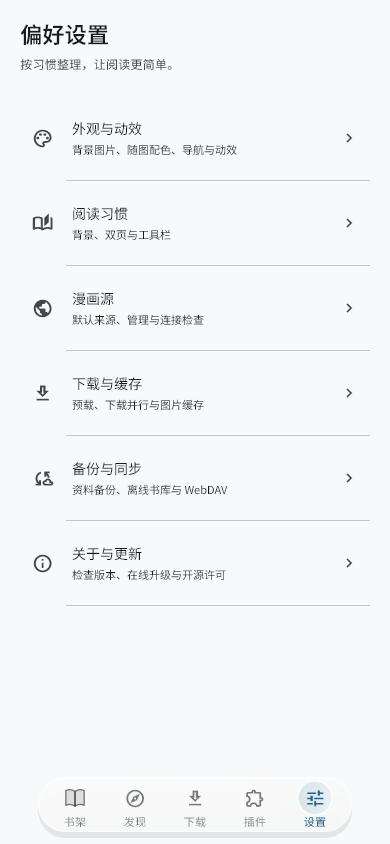
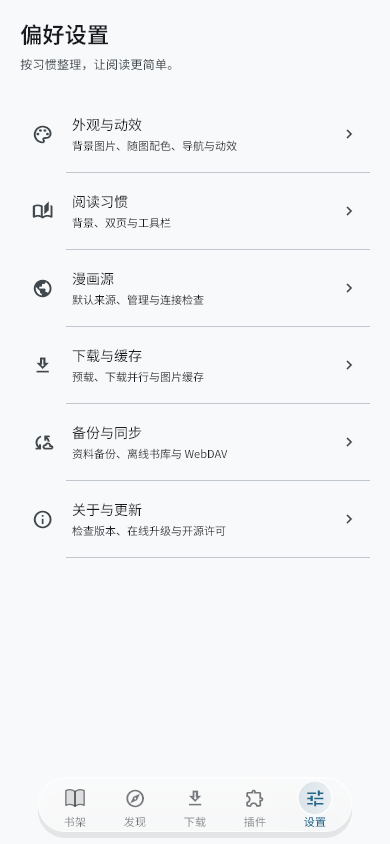
Update v0.4.2 downloads and measured performance notes

diff --git a/README.md b/README.md
@@ -75,14 +75,14 @@
 
 ## 下载与更新
 
-当前发行版：**[v0.4.1](https://github.com/LexianLix/manxia/releases/tag/v0.4.1)**，支持 **Android 7.0+**。提供使用固定项目密钥签名的 **Release 模式 APK**，按设备架构分包。
+当前发行版：**[v0.4.2](https://github.com/LexianLix/manxia/releases/tag/v0.4.2)**，支持 **Android 7.0+**。提供使用固定项目密钥签名的 **Release 模式 APK**，按设备架构分包。
 
 | 设备 | 安装包 |
 | --- | --- |
-| 常见 Android 手机、平板（推荐） | [ARM64 · arm64-v8a](https://github.com/LexianLix/manxia/releases/download/v0.4.1/Manxia-0.4.1-arm64-v8a.apk) |
-| 旧款 32 位 ARM 设备 | [ARMv7 · armeabi-v7a](https://github.com/LexianLix/manxia/releases/download/v0.4.1/Manxia-0.4.1-armeabi-v7a.apk) |
-| x86_64 设备或模拟器 | [x86_64](https://github.com/LexianLix/manxia/releases/download/v0.4.1/Manxia-0.4.1-x86_64.apk) |
-| 下载完整性校验 | [SHA256SUMS.txt](https://github.com/LexianLix/manxia/releases/download/v0.4.1/SHA256SUMS.txt) |
+| 常见 Android 手机、平板（推荐） | [ARM64 · arm64-v8a](https://github.com/LexianLix/manxia/releases/download/v0.4.2/Manxia-0.4.2-arm64-v8a.apk) |
+| 旧款 32 位 ARM 设备 | [ARMv7 · armeabi-v7a](https://github.com/LexianLix/manxia/releases/download/v0.4.2/Manxia-0.4.2-armeabi-v7a.apk) |
+| x86_64 设备或模拟器 | [x86_64](https://github.com/LexianLix/manxia/releases/download/v0.4.2/Manxia-0.4.2-x86_64.apk) |
+| 下载完整性校验 | [SHA256SUMS.txt](https://github.com/LexianLix/manxia/releases/download/v0.4.2/SHA256SUMS.txt) |
 
 下载对应 APK 后安装即可。同签名、同架构的新版 APK 可以直接覆盖安装，无需卸载。安装 v0.4.0 后，可从“设置 → 关于与更新 → 检查 GitHub 更新”下载后续版本；应用匹配设备架构并校验安装包，随后交给 Android 系统确认安装。首次使用可能需要允许漫匣安装应用。浏览器版提供发行页入口。历史版本、源码归档和发行说明见 [GitHub Releases](https://github.com/LexianLix/manxia/releases)。
 

diff --git a/docs/RELEASE.md b/docs/RELEASE.md
@@ -2,14 +2,14 @@
 
 ## 安装发行版
 
-从 [GitHub Releases](https://github.com/LexianLix/manxia/releases/latest) 下载设备对应的 APK。当前 v0.4.1 支持 Android 7.0（API 24）及以上，提供 ARM64、ARMv7 和 x86_64 三个分包。常见手机和平板优先选择 ARM64。
+从 [GitHub Releases](https://github.com/LexianLix/manxia/releases/latest) 下载设备对应的 APK。当前 v0.4.2 支持 Android 7.0（API 24）及以上，提供 ARM64、ARMv7 和 x86_64 三个分包。常见手机和平板优先选择 ARM64。
 
 发行包使用 Release 模式编译，并由项目固定密钥签名。发行页包含 `SHA256SUMS.txt` 与 `release-manifest.json`，后者记录构建提交、工作流、架构、版本码和签名证书指纹。GitHub 自动提供的 Source code 归档是源码，不是安装包。
 
 下载后可在 PowerShell 中检查文件哈希，并与发行页的校验文件比对：
 
 ```powershell
-Get-FileHash .\Manxia-0.4.1-arm64-v8a.apk -Algorithm SHA256
+Get-FileHash .\Manxia-0.4.2-arm64-v8a.apk -Algorithm SHA256
 ```
 
 项目签名证书 SHA-256：

diff --git a/docs/PERFORMANCE.md b/docs/PERFORMANCE.md
@@ -17,6 +17,17 @@
 
 这些改动限制额外工作量，不等于已经通过所有设备的流畅度验收。物理 iQOO 的帧耗时、发热和安装体验仍需实际检测。
 
+## 2026-10-29 桌面补充测量
+
+Chromium headless、390 × 844、标准材质、五本测试收藏；封面加载后连续点击四次“下一本”，首次进入设置并返回。开启 Chrome tracing，统计渲染器主线程帧工作；每次使用独立浏览器上下文。
+
+| 构建 | 样本 | P50 / ms | P95 / ms | 最大 / ms | 超过 50 ms |
+| --- | ---: | ---: | ---: | ---: | ---: |
+| v0.4.1 | 153 | 22.460 | 38.862 | 115.170 | 8 |
+| v0.4.2 | 155 | 21.990 | 36.910 | 126.892 | 7 |
+
+两次均未通过 P95 ≤ 16.67 ms 且无超过 50 ms 长帧的检查。不能据此宣称已消除卡顿，也不把少量样本的差异换算为 FPS 提升。该结果包含桌面 headless 环境及 tracing 开销，不能替代 Android 真机或显示帧率验证；实际应用内检测也能显示此环境中的绘制长帧。
+
 ## 0.2.2 历史优化与验收
 
 ## 已调整的路径

diff --git a/README_EN.md b/README_EN.md
@@ -42,7 +42,7 @@ See the plugin development guide for Plugin API 1, the manifest format, and comp
 
 ## Download & Install
 
-Current release: **v0.4.1**, for **Android 7.0+**. Release APKs are signed with the project's fixed release key and split per architecture:
+Current release: **v0.4.2**, for **Android 7.0+**. Release APKs are signed with the project's fixed release key and split per architecture:
 
 | Device | Package |
 | --- | --- |
